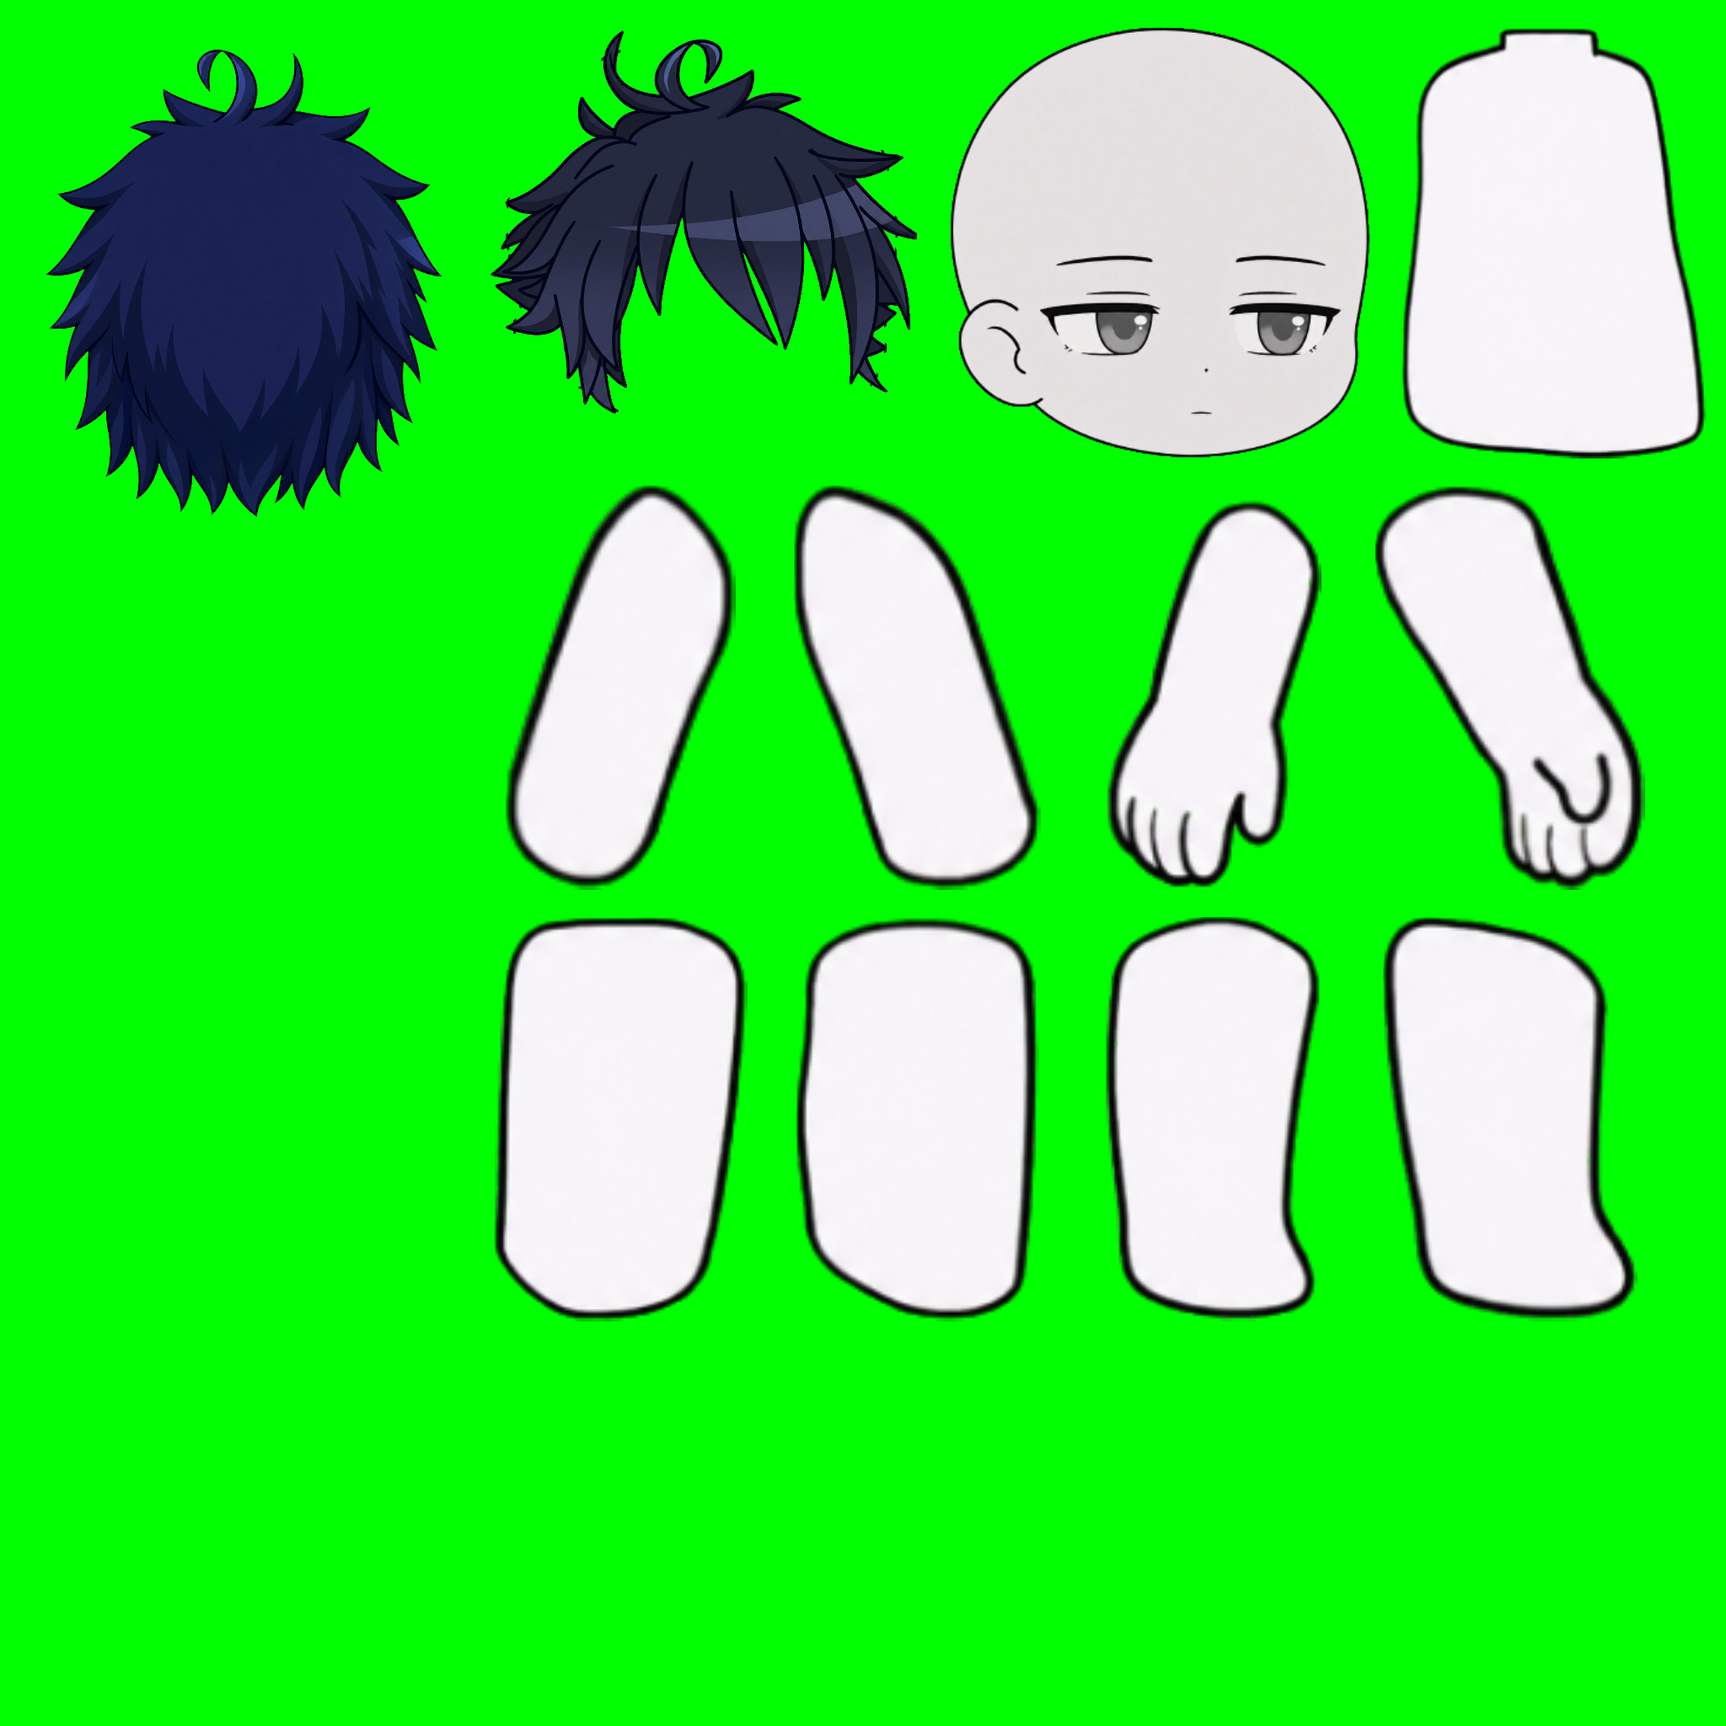
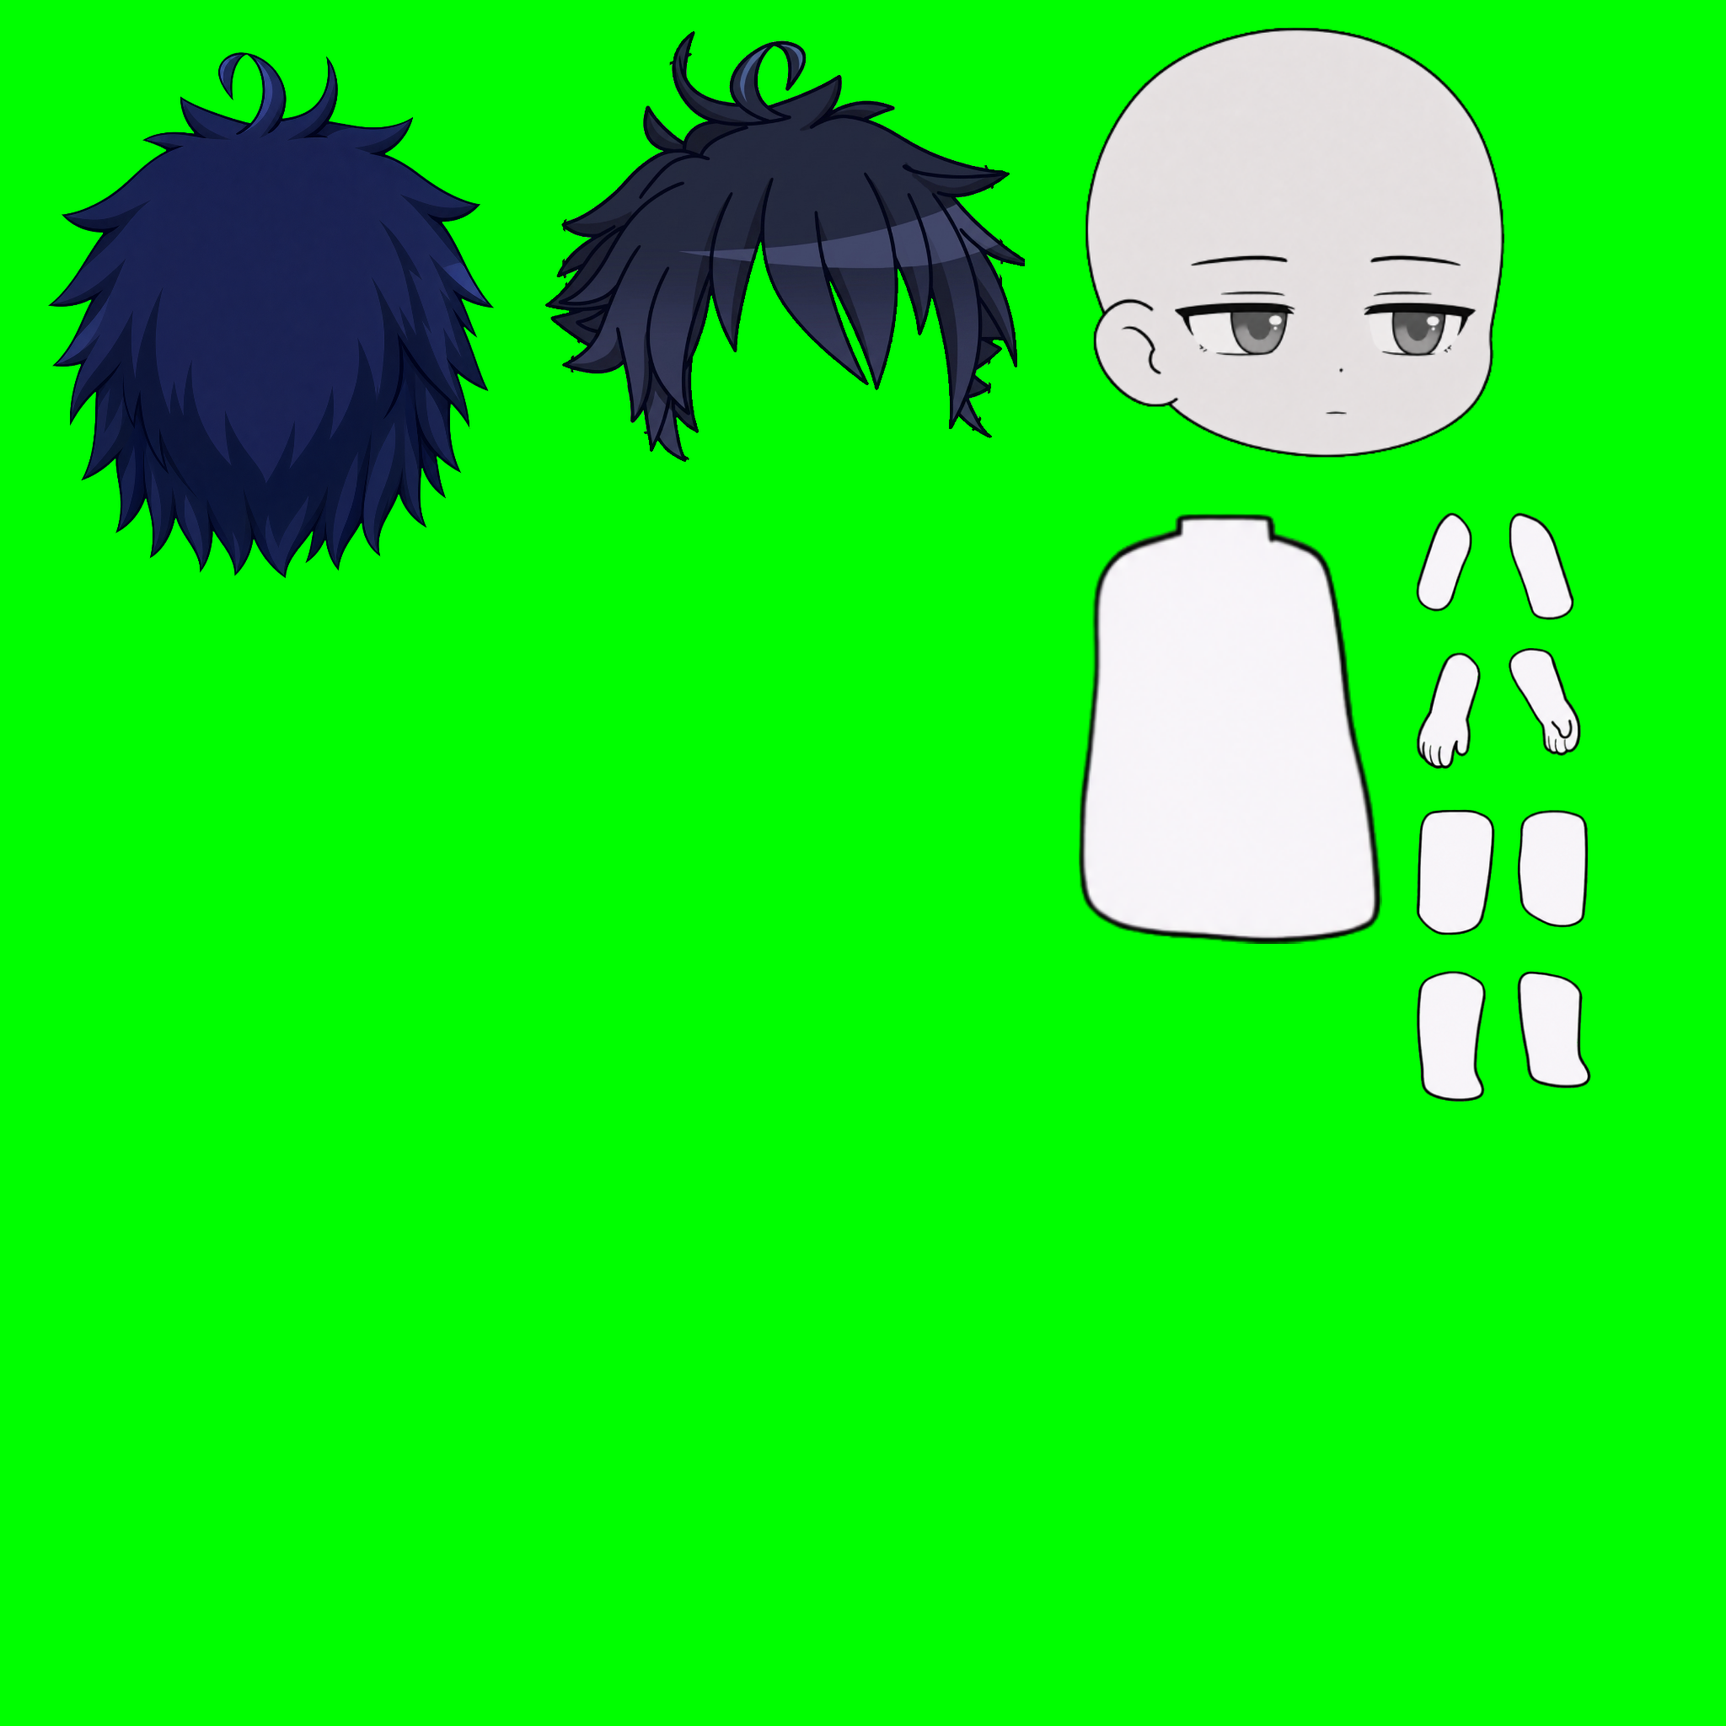
fix: keep character sheet limbs at native size

diff --git a/tool/generate_character_sheet_v2.dart b/tool/generate_character_sheet_v2.dart
@@ -22,62 +22,62 @@ const _targets = <_TargetSpec>[
       'back_hair_medium',
       'back_hair_long',
     ],
-    crop: _Rect(32, 32, 512, 878),
+    crop: _Rect(32, 32, 576, 988),
   ),
   _TargetSpec(
     id: 'front_hair',
     sourceRegionId: 'front_hair',
-    crop: _Rect(576, 32, 512, 512),
+    crop: _Rect(640, 32, 576, 576),
   ),
   _TargetSpec(
     id: 'head',
     sourceRegionId: 'head',
-    crop: _Rect(1120, 32, 512, 512),
+    crop: _Rect(1280, 32, 512, 512),
   ),
   _TargetSpec(
     id: 'torso',
     sourceRegionId: 'torso',
-    crop: _Rect(1664, 32, 360, 512),
+    crop: _Rect(1280, 608, 360, 512),
   ),
   _TargetSpec(
     id: 'upper_arm_right',
     sourceRegionId: 'upper_arm_right',
-    crop: _Rect(576, 576, 320, 480),
+    crop: _Rect(1680, 608, 67, 118),
   ),
   _TargetSpec(
     id: 'upper_arm_left',
     sourceRegionId: 'upper_arm_left',
-    crop: _Rect(928, 576, 320, 480),
+    crop: _Rect(1790, 608, 78, 128),
   ),
   _TargetSpec(
     id: 'lower_arm_right',
     sourceRegionId: 'lower_arm_right',
-    crop: _Rect(1280, 576, 320, 480),
+    crop: _Rect(1680, 768, 77, 145),
   ),
   _TargetSpec(
     id: 'lower_arm_left',
     sourceRegionId: 'lower_arm_left',
-    crop: _Rect(1632, 576, 320, 480),
+    crop: _Rect(1790, 768, 86, 129),
   ),
   _TargetSpec(
     id: 'upper_leg_right',
     sourceRegionId: 'upper_leg_right',
-    crop: _Rect(576, 1088, 320, 480),
+    crop: _Rect(1680, 960, 94, 150),
   ),
   _TargetSpec(
     id: 'upper_leg_left',
     sourceRegionId: 'upper_leg_left',
-    crop: _Rect(928, 1088, 320, 480),
+    crop: _Rect(1800, 960, 85, 141),
   ),
   _TargetSpec(
     id: 'lower_leg_right',
     sourceRegionId: 'lower_leg_right',
-    crop: _Rect(1280, 1088, 320, 480),
+    crop: _Rect(1680, 1152, 84, 156),
   ),
   _TargetSpec(
     id: 'lower_leg_left',
     sourceRegionId: 'lower_leg_left',
-    crop: _Rect(1632, 1088, 320, 480),
+    crop: _Rect(1800, 1152, 88, 140),
   ),
 ];
 
@@ -213,7 +213,7 @@ void main() {
     'lockedRig': v1Manifest['lockedRig'],
     'transport': <String, dynamic>{
       'purpose':
-          'balanced provider detail density without changing runtime geometry',
+          'resize hair transport only while preserving reviewed head and torso sizes and native limb cells',
       'extractFrom': 'transportContent',
       'outputPolicy': 'resize once to outputCanvas after masking',
       'originalRuntimeAssetsRemainImmutable': true,

diff --git a/docs/CHARACTER_SHEET_PLAN.md b/docs/CHARACTER_SHEET_PLAN.md
@@ -1,6 +1,6 @@
 # StoryTale Character Sheet V1 and V2 Implementation Plan
 
-Status: **Authoritative Phase 7G.1 plan. The V1 Flutter/Worker pipeline and the Phase 7G.1C enforcement are implemented locally, but no generated package has been accepted. Corrective Phase 7G.1B.R now has a local-only `character_sheet_v2` candidate with a balanced `2048 x 2048` transport layout. Owner approval of the V2 guide is the immediate gate. Flutter and the Worker still use V1, and no V2 provider request is authorized before that approval.**
+Status: **Authoritative Phase 7G.1 plan. The V1 Flutter/Worker pipeline and the Phase 7G.1C enforcement are implemented locally, but no generated package has been accepted. Corrective Phase 7G.1B.R now has a local-only `character_sheet_v2` candidate with a hair-focused `2048 x 2048` transport layout. Owner approval of the V2 guide is the immediate gate. Flutter and the Worker still use V1, and no V2 provider request is authorized before that approval.**
 
 This document owns the exact character-sheet contract, implementation order,
 validation gate, and handoff rules for Phase 7G.1B. The Master Roadmap still
@@ -34,20 +34,20 @@ AI-drawn full-body master.
 The old name `clothing_sheet_v1` is superseded by the versioned
 `character_sheet_v1` and `character_sheet_v2` contracts.
 
-## 2A. Corrective Phase 7G.1B.R - balanced V2 transport contract
+## 2A. Corrective Phase 7G.1B.R - hair-focused V2 transport contract
 
 The native-size V1 sheet made the three hair canvases dominate a `4096 x
-4096` provider output while the native torso and limbs remained too small for
-reliable clothing detail. V2 separates provider transport size from immutable
-runtime output size:
+4096` provider output. V2 resizes the hair presentation only. The owner keeps
+the reviewed V2 head and torso scale, requires all arm and leg cells to remain
+at their original native sizes, and keeps runtime output geometry immutable:
 
 | Region family | V2 transport cell | Runtime output |
 | --- | --- | --- |
-| selected back hair | `512 x 878` | unchanged `1254 x 2150` hair canvas |
-| front hair | `512 x 512` | unchanged `1254 x 1254` hair canvas |
+| selected back hair | `576 x 988` | unchanged `1254 x 2150` hair canvas |
+| front hair | `576 x 576` | unchanged `1254 x 1254` hair canvas |
 | head/face details | `512 x 512` | unchanged `357 x 367` head part |
 | torso clothing | `360 x 512` | unchanged `165 x 234` torso part |
-| each arm or leg piece | `320 x 480` | that part's unchanged native canvas |
+| each arm or leg piece | its exact native size | the same native canvas |
 
 Only one `back_hair_selected` transport cell exists. The manifest maps
 `short`, `medium`, `long`, or `none` to that slot while retaining every
@@ -166,7 +166,7 @@ of repeating crop rectangles or guessing component boundaries.
 - validation tolerances that are deterministic and versioned.
 
 V2 additionally stores the `2K` provider image size, one selected back-hair
-slot and its variant map, each balanced transport crop, its inner
+slot and its variant map, each fixed transport crop, its inner
 `transportContent`, the unchanged runtime `outputCanvas`, and the one-time
 resampling policy.
 
@@ -193,7 +193,7 @@ version. An identical ready result is reused instead of generated again.
 ## 8. Gemini output rules
 
 The V2 target contract requires one exact `2048 x 2048` PNG, one active
-`back_hair_selected` slot or an explicit empty `none`, balanced transport
+`back_hair_selected` slot or an explicit empty `none`, hair-focused transport
 cells, flat green gaps, and no provider-added labels or borders. The current
 V1 integration keeps the following historical requirements until the owner
 approves V2 and the migration is implemented:
@@ -336,9 +336,10 @@ Phase 7G.1B.1 completed without a paid provider request.
 ### Phase 7G.1B.R - V2 transport correction - local candidate complete
 
 1. Preserve V1 and the locked runtime assets unchanged.
-2. Create the balanced `2048 x 2048` V2 guide with one selected back-hair slot.
-3. Enlarge the provider-facing torso and limb regions while recording their
-   unchanged runtime output canvases.
+2. Create the hair-focused `2048 x 2048` V2 guide with one selected back-hair
+   slot that is slightly larger than the head.
+3. Keep the reviewed head and torso scale and restore every arm and leg cell
+   to its exact native size.
 4. Regenerate allowed, protected, and seam masks deterministically.
 5. Record the `2K` provider contract, hashes, variant mapping, and one-time
    resampling rule.
@@ -433,8 +434,8 @@ version `ed567efb-c4a9-4e76-ad32-f55a2e83d65a`.
 - [x] V1 and all original rig/hair assets remain unchanged behind checkpoint
   `92e6633`.
 - [x] The local V2 candidate is exactly `2048 x 2048`, uses one selected
-  back-hair slot, and records balanced transport cells separately from native
-  runtime output canvases.
+  back-hair slot slightly larger than the head, keeps the reviewed head/torso
+  scale, and keeps every arm and leg transport cell at native size.
 - [x] The V2 guide, masks, manifest, prompt, hashes, and deterministic builder
   are versioned without a provider request.
 - [ ] The owner visually approves the V2 guide and layout.

diff --git a/docs/ROADMAP.md b/docs/ROADMAP.md
@@ -383,8 +383,9 @@ the existing rig hierarchy to render four distinct proof PNGs, records their
 hashes and validation metadata, exposes six read-only proof groups, and cannot
 become `ready` until the four-pose gate passes. The first accepted generated
 package is still pending. **Corrective Phase 7G.1B.R now has a local-only
-`character_sheet_v2` candidate:** it uses a balanced `2048 x 2048` transport
-sheet, one selected back-hair slot, larger provider-facing body cells, explicit
+`character_sheet_v2` candidate:** it uses a hair-focused `2048 x 2048`
+transport sheet, one selected back-hair slot slightly larger than the head,
+the reviewed head/torso scale, native-size arm and leg cells, explicit
 transport-content rectangles, unchanged runtime output canvases, regenerated
 masks, and a deterministic offline builder. V1 and every rig/hair source remain
 unchanged behind checkpoint `92e6633`. Owner visual approval of the V2 guide is
@@ -428,9 +429,10 @@ Implementation order:
    seam masks, and prompt contract. Make no paid provider request in this
    subphase.
 8. **Local candidate complete in corrective Phase 7G.1B.R:** preserve V1 and
-   build `character_sheet_v2` as one balanced 2K transport sheet with one
-   selected back-hair slot, larger body cells, unchanged runtime output sizes,
-   regenerated masks, and no provider request. Stop for owner visual approval.
+   build `character_sheet_v2` as one hair-focused 2K transport sheet with one
+   selected back-hair slot slightly larger than the head, the reviewed
+   head/torso scale, native-size arm and leg cells, regenerated masks, and no
+   provider request. Stop for owner visual approval.
 9. **Implemented locally in Phase 7G.1B.2 for V1:** request one fixed character sheet
    containing aligned face details, front/back hair, and nine fitted-clothing
    regions without automatic paid retries.
@@ -504,8 +506,9 @@ Current Phase 7G.1 work:
   add one exact crop/anchor manifest, assembled reference, allowed/protected/
   seam masks, and prompt contract without making a paid request.
 - [x] **Corrective Phase 7G.1B.R, local candidate:** preserve V1 and generate a
-  balanced `2048 x 2048` V2 guide, masks, manifest, prompt, and reference with
-  one selected back-hair slot and unchanged runtime output canvases.
+  hair-focused `2048 x 2048` V2 guide, masks, manifest, prompt, and reference
+  with one selected back-hair slot, reviewed head/torso scale, native-size
+  limbs, and unchanged runtime output canvases.
 - [ ] **Corrective Phase 7G.1B.R owner gate:** visually approve the V2 guide
   before connecting it to Flutter, the Worker, or Gemini.
 - [x] **Phase 7G.1B.2, local implementation:** connect one controlled fixed-sheet provider
@@ -769,7 +772,7 @@ These decisions must be recorded here when resolved.
 | `SPRITE_STUDIO_PLAN.md` | Rig and pose editor behavior |
 | `MODULAR_FACE_SYSTEM_PLAN.md` | Face-part catalogs and set behavior |
 | `GENERATED_CHARACTER_PIPELINE_PLAN.md` | Template-constrained Gemini character, real rig, face/pose proof, and Story Mode binding gate |
-| `CHARACTER_SHEET_PLAN.md` | Authoritative V1/V2 character-sheet contracts, balanced transport correction, local proof pipeline, and Phase 7G.1B acceptance gates |
+| `CHARACTER_SHEET_PLAN.md` | Authoritative V1/V2 character-sheet contracts, hair-focused transport correction, local proof pipeline, and Phase 7G.1B acceptance gates |
 | `FIXED_HAIR_SLOT_PLAN.md` | Universal per-actor/per-style front/back hair fitting and explicit no-back-hair behavior |
 | `CLOUDFLARE_IMAGE_GENERATOR.md` | Worker routes and provider responsibilities |
 | `UI_IMPLEMENTATION_PLAN.md` | Responsive screen and reusable-widget reference |

diff --git a/docs/PROJECT_HANDOFF.md b/docs/PROJECT_HANDOFF.md
@@ -330,12 +330,13 @@ single-active-actor JSON shape migrates into the new manifest safely.
 The current implemented provider path still uses fixed `character_sheet_v1`.
 Corrective Phase 7G.1B.R has now produced a local-only
 `character_sheet_v2` candidate for owner review. V2 keeps the same coherent
-character method while separating balanced provider transport sizes from the
+character method while separating hair-focused provider transport sizes from the
 unchanged runtime canvases:
 
 1. StoryTale will supply one locked `2048 x 2048` guide with one selected
-   back-hair slot, similarly scaled head/hair regions, enlarged body transport
-   cells, a locally assembled neutral reference, and the source-backed brief.
+   back-hair slot slightly larger than the head, the reviewed head/torso scale,
+   native-size arm and leg cells, a locally assembled neutral reference, and
+   the source-backed brief.
 2. Gemini returns only separated masked face details, front/back hair, and nine
    fitted clothing regions; it does not return another assembled body.
 3. StoryTale removes the flat green locally.
@@ -509,9 +510,10 @@ The [Master Roadmap](ROADMAP.md) is authoritative. As of this handoff:
    read-only review groups; and `ready` requires the full four-pose gate. The
    first accepted owner-controlled generated package remains pending.
 6. **Local corrective candidate: Phase 7G.1B.R** - `character_sheet_v2` is a
-   balanced `2048 x 2048` transport contract with one selected back-hair slot,
-   larger body cells, unchanged runtime output canvases, regenerated masks,
-   and a deterministic offline builder. It made no provider request.
+   hair-focused `2048 x 2048` contract with one selected back-hair slot
+   slightly larger than the head, the reviewed head/torso scale, native-size
+   limbs, unchanged runtime output canvases, regenerated masks, and a
+   deterministic offline builder. It made no provider request.
 7. **Immediate gate:** visually approve or reject the V2 guide. Do not connect
    V2 to Flutter/Worker or spend another Gemini request before approval.
 8. **Implemented locally: Phase 7G.1C** — the V1 package now verifies the approved

diff --git a/assets/images/characters/generation_templates/humanoid_v1/character_sheet_v2/prompt_contract.md b/assets/images/characters/generation_templates/humanoid_v1/character_sheet_v2/prompt_contract.md
@@ -12,7 +12,7 @@ They are data fields, not permission to change the contract.
 
 ## Required provider inputs
 
-1. `guide.png` - the exact balanced transport layout.
+1. `guide.png` - the exact hair-focused transport layout.
 2. `assembled_reference.png` - how the locked parts connect locally.
 3. `allowed_regions.png` - white pixels may contain generated appearance.
 4. `protected_regions.png` - white pixels must preserve the locked source.
@@ -53,8 +53,10 @@ boots, armor, trim, and patterns must all belong to that same character.
   `crop_manifest.json`.
 - Keep the untouched background exactly flat `#00FF00`.
 - Do not move, rotate, merge, tightly crop, or add borders around any cell.
-- The larger body cells and smaller hair cells are transport regions. Do not
-  infer new anatomy or change the proportions of the supplied part inside one.
+- The hair uses the intentionally resized transport regions. The head and
+  torso keep their already reviewed V2 transport scale, while every arm and
+  leg cell keeps its original native dimensions. Do not infer new anatomy or
+  change any supplied proportions.
 - Draw the chosen Short, Medium, or Long design only in
   `back_hair_selected`. If the selection is `none`, leave that slot green.
 - Keep right-side artwork in right-side cells and left-side artwork in

diff --git a/README.md b/README.md
@@ -30,9 +30,10 @@ protected, and seam masks, stores transparent session layers and metadata, and
 assembles the neutral full-body proof without redrawing the runtime head or
 body. The same accepted package now composes read-only Idle, Talking, Pointing,
 and Walking proofs and exposes Character, Layers, Faces, Hair, Poses, and
-Details review groups. A local-only V2 correction now provides a balanced 2K
-sheet with one selected back-hair slot and larger body transport cells while
-keeping runtime geometry unchanged. Owner visual approval of that V2 guide is
+Details review groups. A local-only V2 correction now provides a hair-focused
+2K sheet with one selected back-hair slot, slightly larger hair than the head,
+the reviewed head and torso scale, and native-size arm and leg cells. Owner
+visual approval of that V2 guide is
 the next gate; Flutter, the Worker, and Gemini still use V1 until approval.
 Imported books still remain in memory for the app session,
 DeepL uses placeholder text, the mobile ONNX TTS runtime is not connected, and
